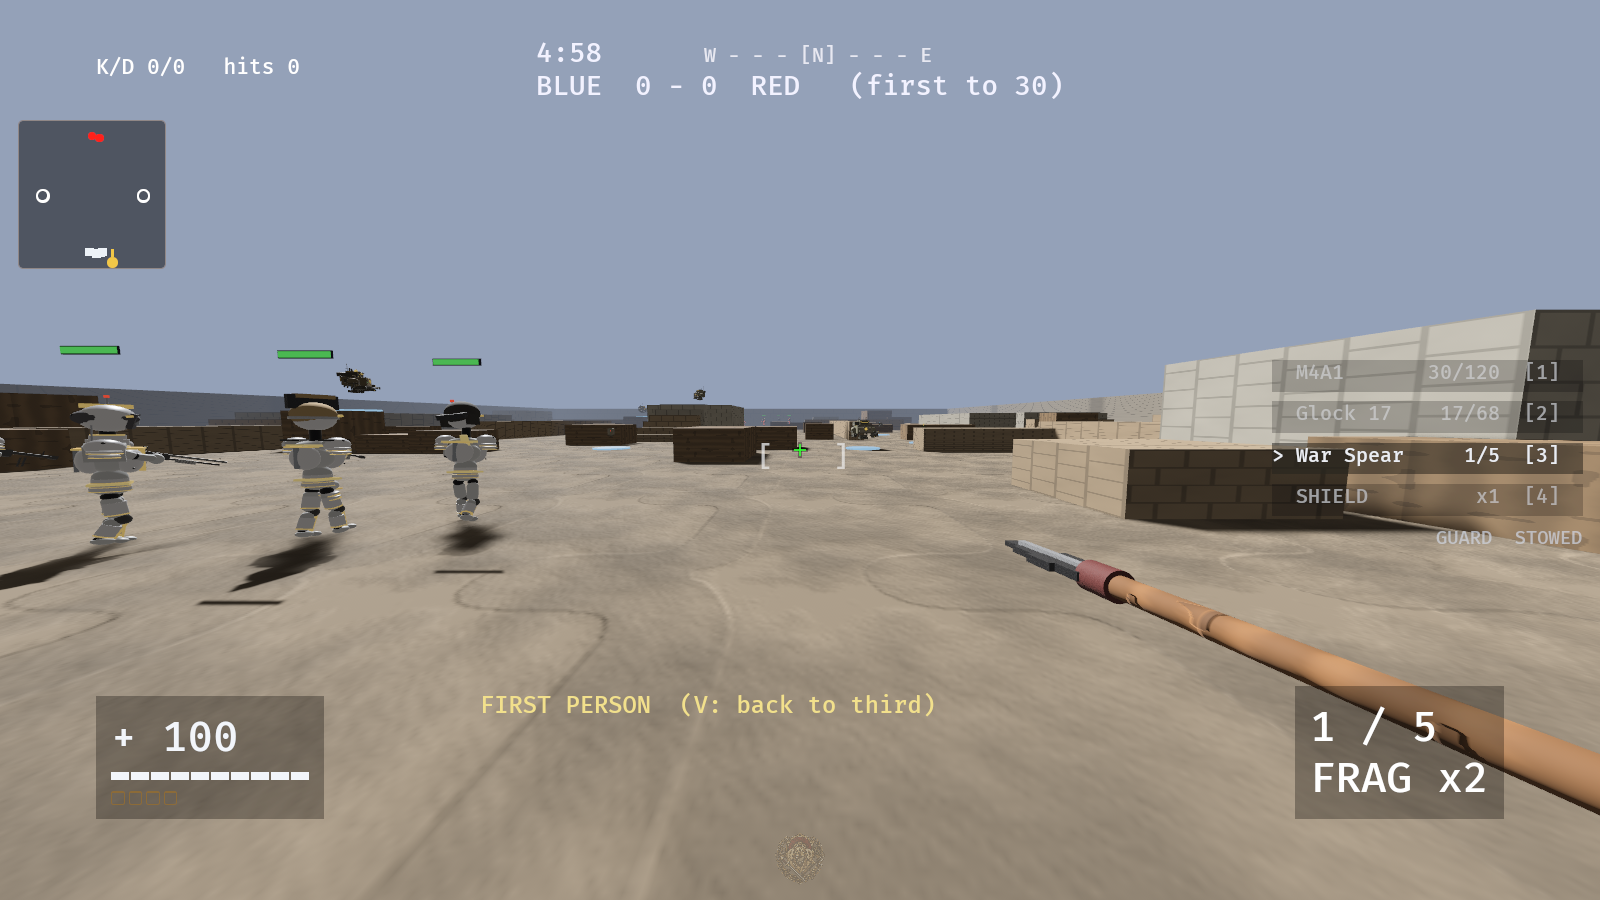
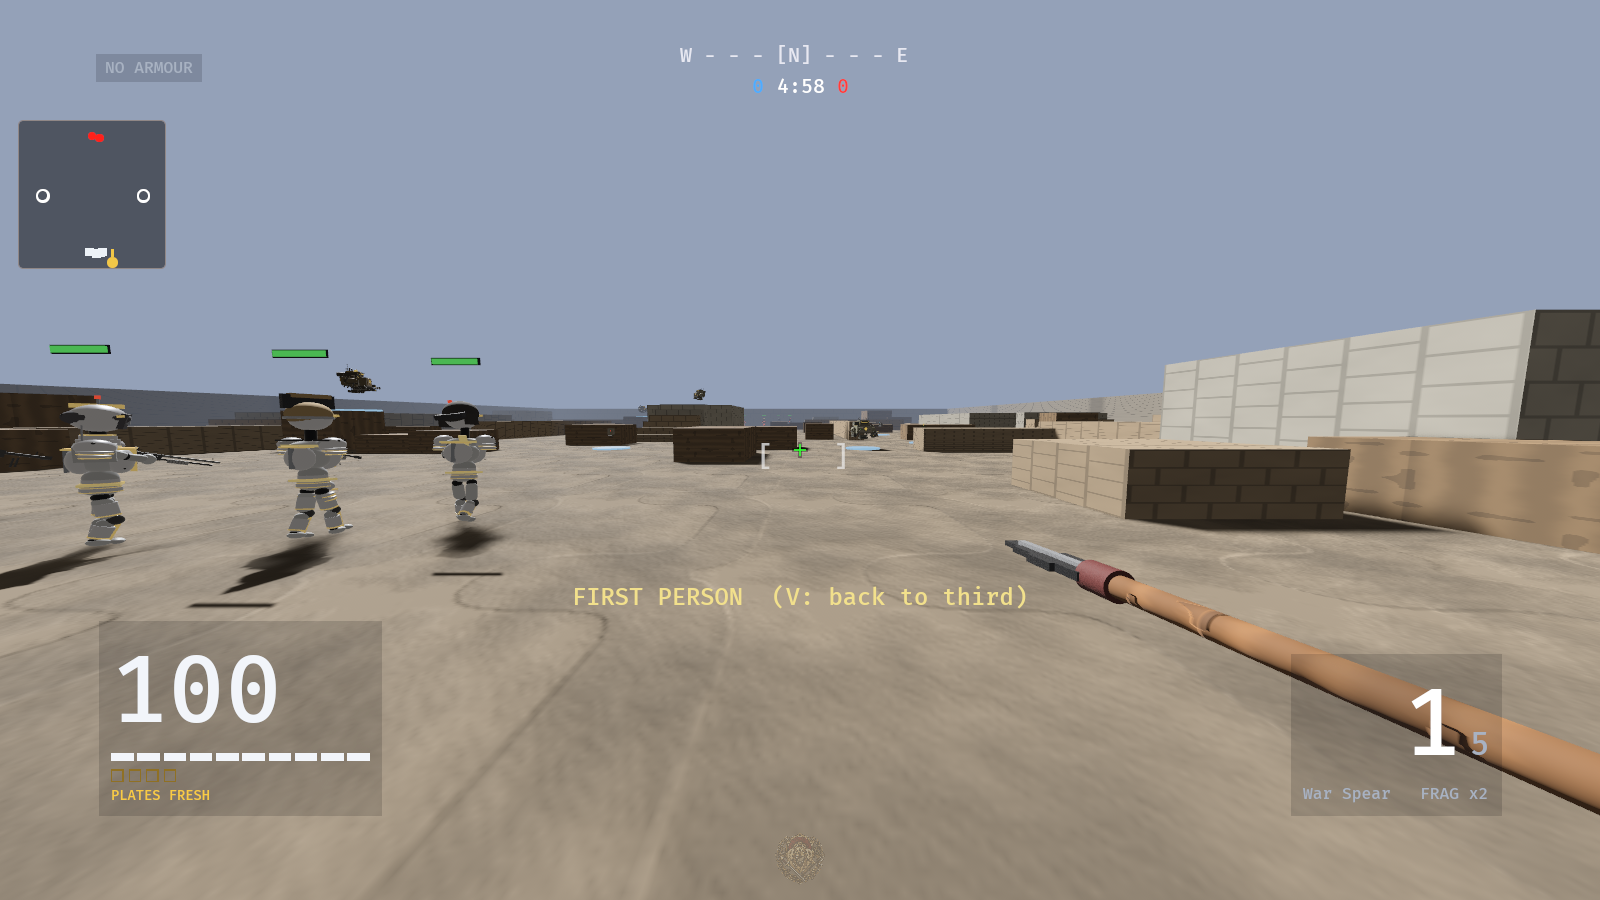
The seven-second hold has a tell, and the overhead wind is photographed at last
THE MAX-CHARGE TELL (hud.rs paint_equip). The main.rs `JAVELIN {tag}`
string this pass first wrote turned out to be invisible: a concurrent
HUD rework moved the player-state readout into `paint_equip`, and the
capture is what caught it - `04-fp-spear-full-charge.png` had no javelin
line anywhere on screen. The tell now lives where the HUD actually is,
in that panel's own LABEL/STATUS grammar and with no float or bar (this
file's own rule): JAVELIN WIND -> FULL -> MAX +10%, and THROWN / THROWN
MAX through the plant, because `spear_max_charged_of` is deliberately
true in both phases. `spear_stance_of` picks the phase.

A SCRIPT THAT CAN SEE IT (main.rs SPEAR_FP_BEATS). No capture had ever
held the charge past 5.4 s and the bonus lands at 7.0 s, so the one
frame the tell exists in could not be photographed. `spear_fp` now holds
to 9.4 s; the plant and thrown beats shift with it and renumber.

CAPTURES OPENED, and one of them is a NEGATIVE result:

* spear_fp, 7 shots, exit 0, no panics. 02 / 03 / 04 have the spear head
  at three different pixels for the first time - it rises and draws back
  through the charge where before all three were identical. 05 reads
  JAVELIN MAX +10% in the top-left panel. The range readout that used to
  sit under the crosshair ("35 m", visible in the pre-change frame) is
  gone, and no landing ring is drawn.

* spear_wind, 8 shots, exit 0, no panics - the directory did not exist
[…]

diff --git a/engine/crates/jk_tdm/src/main.rs b/engine/crates/jk_tdm/src/main.rs
@@ -5822,17 +5822,23 @@ const SPEAR_FP_BEATS: &[CapBeat] = &[
     CapBeat { press: &[CapKey::M(MouseButton::Left)], ..beat(2.2) },
     CapBeat { snap: Some("03-fp-spear-charging"), ..beat(3.0) },
     CapBeat { snap: Some("04-fp-spear-full-charge"), ..beat(5.4) },
+    // §owner: THE SEVEN-SECOND HOLD. `spear_max_charged` pays +10% four
+    // seconds AFTER the bar fills, and no script had ever held that
+    // long - so the one frame the max-charge tell exists in had never
+    // been photographed by anything. The charge starts at 2.2 s, so
+    // this is the first frame past it.
+    CapBeat { snap: Some("05-fp-spear-max-charge"), ..beat(9.4) },
     CapBeat {
         release: &[CapKey::M(MouseButton::Left)],
-        ..beat(5.5)
+        ..beat(9.5)
     },
-    CapBeat { snap: Some("05-fp-spear-plant"), ..beat(5.65) },
+    CapBeat { snap: Some("06-fp-spear-plant"), ..beat(9.65) },
     CapBeat {
         release: &[CapKey::M(MouseButton::Right)],
-        snap: Some("06-fp-spear-thrown"),
-        ..beat(6.1)
+        snap: Some("07-fp-spear-thrown"),
+        ..beat(10.1)
     },
-    CapBeat { end: true, ..beat(6.5) },
+    CapBeat { end: true, ..beat(10.5) },
 ];
 
 /// §owner §7 THE CHARGING MOTION, THIRD PERSON - the overhead wind.
@@ -19189,6 +19195,25 @@ fn sync_fighters(
                 j.hand,
                 Quat::from_rotation_y(j.yaw)
                     * Quat::from_rotation_x(
+                        // §owner OPEN, and photographed: this pose does
+                        // NOT read as the reference. See
+                        // `spear_wind/04-wind-full.png` and
+                        // `05-wind-full-profile.png` - the arm is high
+                        // and the weapon is overhead, but the blade
+                        // stands UP beside the ear pointing back over
+                        // the shoulder rather than forward-and-down,
+                        // which reads as a shouldered pike.
+                        //
+                        // `- j.pitch` was tried here and CAPTURED: it
+                        // makes it worse, laying the shaft flat across
+                        // the body with the butt out front and the
+                        // blade behind. So the flip is not a sign
+                        // error in this one term, and it is not being
+                        // shipped on a guess. Whoever takes this needs
+                        // the whole chain - `wr_pitch`, the weapon
+                        // root's own carry rotation and the hand
+                        // socket - in front of them, one axis at a
+                        // time, with a capture between each.
                         wr_pitch * (0.30 + 0.70 * spear_plant) + j.pitch + jerk * 1.5,
                     ),
             )

diff --git a/engine/crates/jk_tdm/src/hud.rs b/engine/crates/jk_tdm/src/hud.rs
@@ -1250,6 +1250,40 @@ fn paint_equip(game: Res<Game>, mut q: Query<&mut Text, With<EquipText>>) {
     if p.reload_t > 0.0 {
         s += "RELOAD    ...\n";
     }
+    // §owner THE JAVELIN CHARGE, and the seven-second hold's TELL.
+    //
+    // `spear_max_charged_of` pays +10% damage four seconds after the
+    // charge fills and had ZERO readers anywhere in the client, so the
+    // bonus was a mechanic no player could discover: nothing on screen
+    // changed when they earned it. Three states, one row, in this
+    // panel's own LABEL/STATUS grammar - and no float and no bar, per
+    // this file's §0 ban on printing raw sub-second numbers.
+    //
+    // Both facts come from the sim's own accessors rather than from
+    // `spear_charge_t / SPEAR_CHARGE_FULL_S`, which is a sim constant
+    // divided on the client and the exact split those accessors were
+    // published to close.
+    match game.sim.spear_stance_of(game.sim.player) {
+        sim::SpearStance::Winding => {
+            s += if game.sim.spear_max_charged_of(game.sim.player) {
+                "JAVELIN   MAX +10%\n"
+            } else if game.sim.spear_wind_frac_of(game.sim.player) >= 1.0 {
+                "JAVELIN   FULL\n"
+            } else {
+                "JAVELIN   WIND\n"
+            };
+        }
+        sim::SpearStance::Planting => {
+            // the earned bonus survives the release, and so does its
+            // readout - the accessor is deliberately true through both
+            s += if game.sim.spear_max_charged_of(game.sim.player) {
+                "JAVELIN   THROWN  MAX\n"
+            } else {
+                "JAVELIN   THROWN\n"
+            };
+        }
+        sim::SpearStance::Carried => {}
+    }
     **t = s;
 }
 
